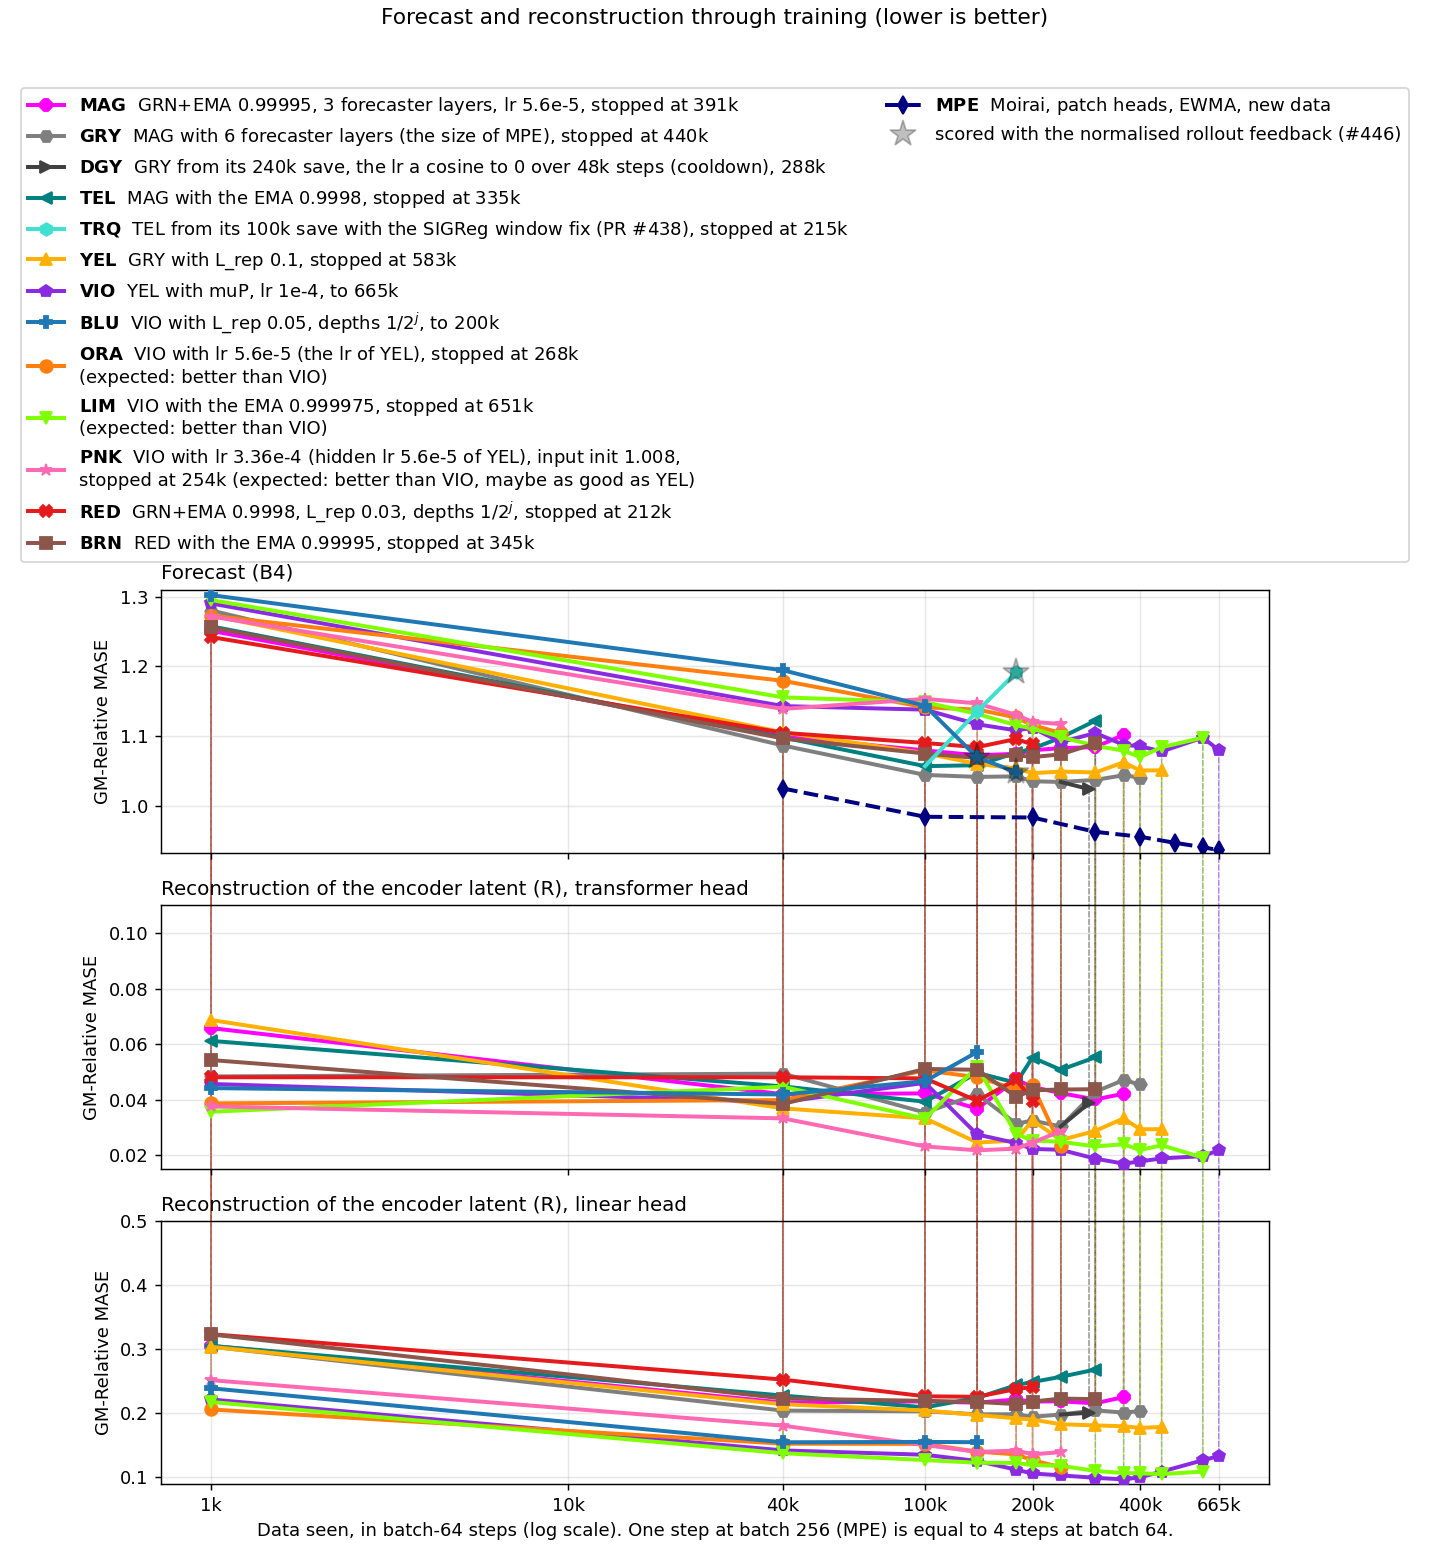
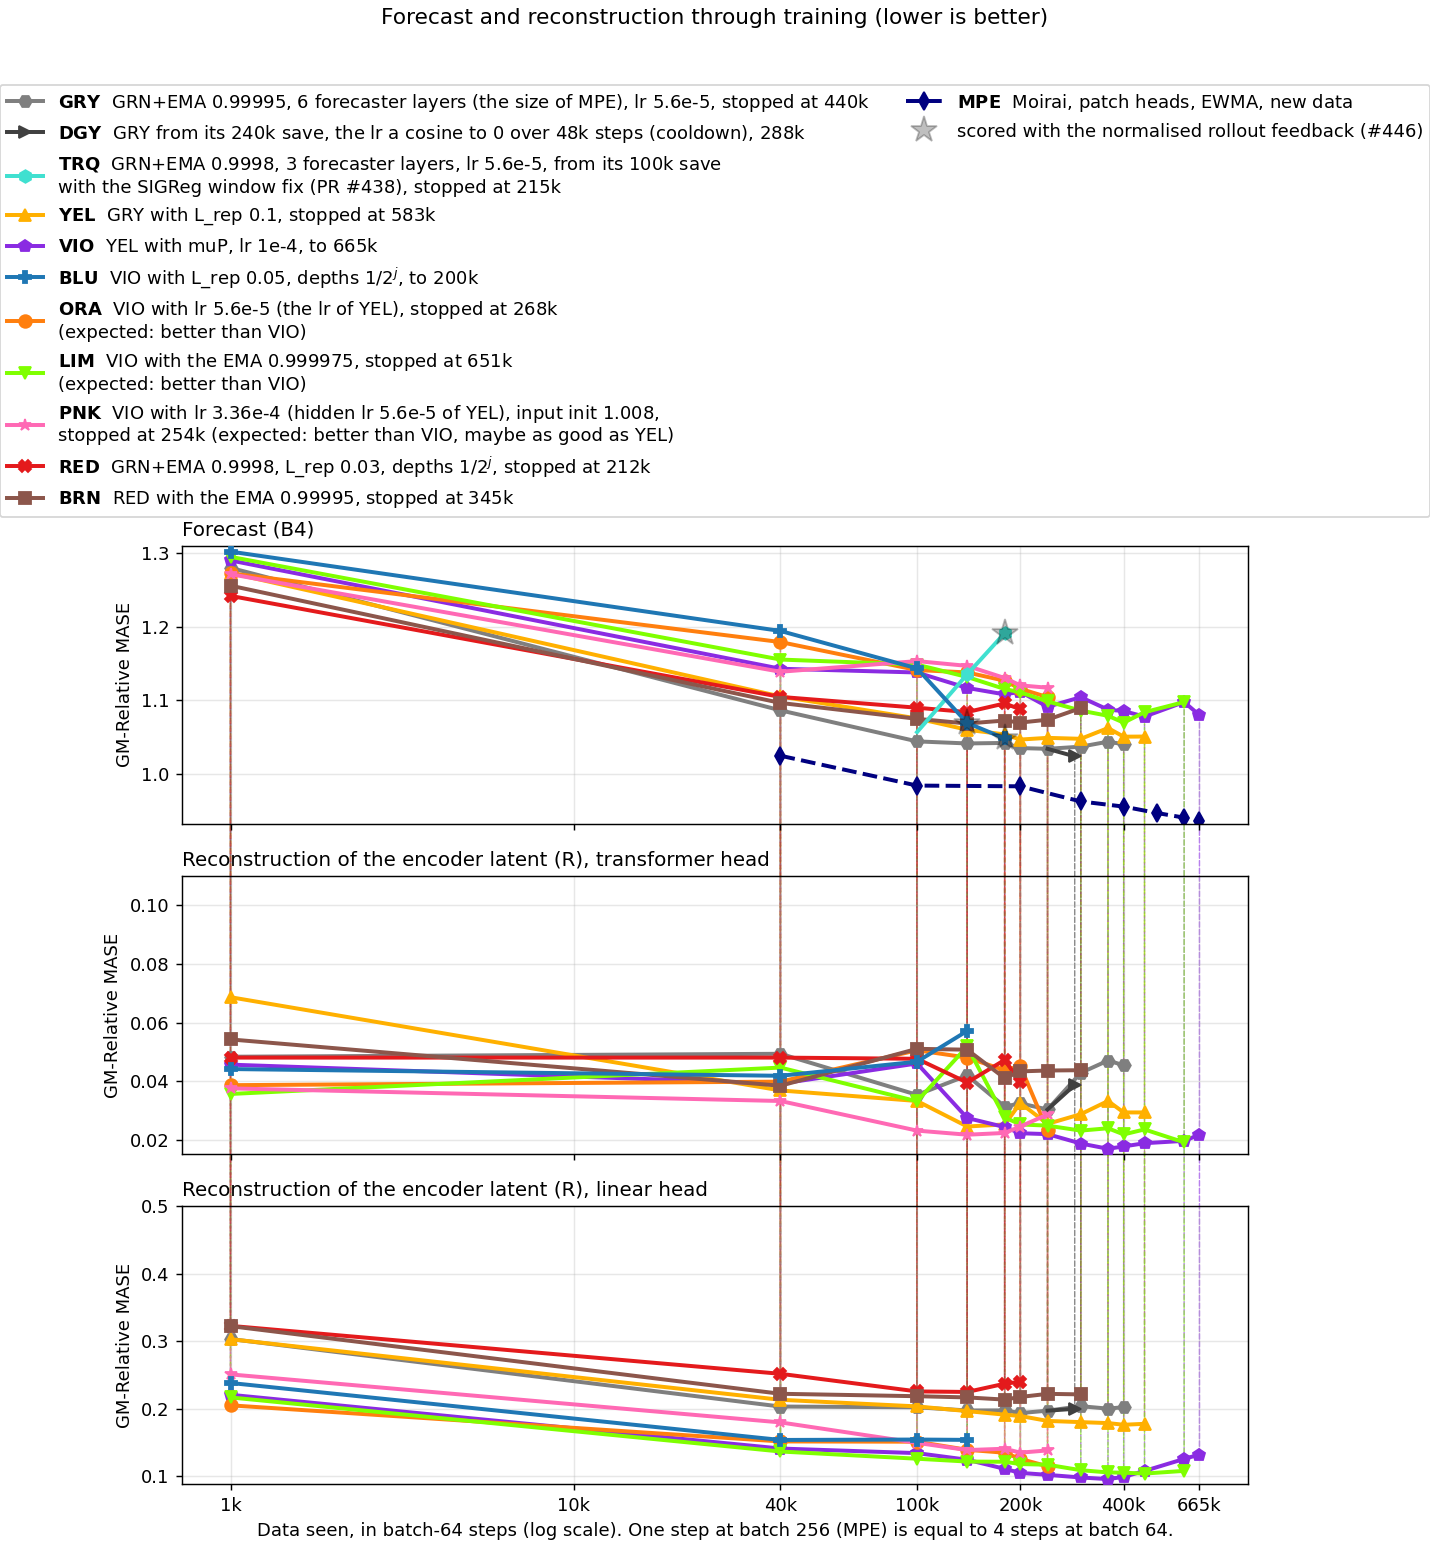
freq_family report: TEL and MAG out of the score figure; text for blue 180k and the gate
On the request of the user (11-04), teal and magenta leave the forecast and
reconstruction figure. TRQ starts at the 100k score of teal, the save that it
resumed. The report text gives blue at 180k (1.0482, normalised rollout) and
the gate score (1.2866). The best-forecast label of the loss composition says
when the score used the normalised rollout.

Changed region(s): [[0.0, 0.0615, 0.8923, 0.9846], [0.6154, 0.0615, 1.0, 0.3385]]

diff --git a/reports/2026-10-10_frequency_family_head/scripts/plot_green_scores.py b/reports/2026-10-10_frequency_family_head/scripts/plot_green_scores.py
@@ -15,9 +15,11 @@ Writes plots/forecast_and_reconstruction.png: three panels on one x axis.
   3. The same, linear head.
 
 A dashed vertical line joins the scores of one checkpoint in the panels. The
-legend gives each run a three-letter code (from its colour: MAG, GRY, YEL, VIO,
-BLU, ORA, LIM, PNK, RED, BRN, DGY, TEL, TRQ), and for orange, lime and pink the result that
-the user expected before their start.
+legend gives each run a three-letter code (from its colour: GRY, YEL, VIO,
+BLU, ORA, LIM, PNK, RED, BRN, DGY, TRQ), and for orange, lime and pink the result that
+the user expected before their start. GRN+EMA 0.99995 with 3 forecaster layers
+(MAG) and the same with the EMA 0.9998 (TEL) are out of the figure (the user,
+11-04); TRQ starts at the 100k score of TEL, the save that it resumed.
 
 Reads the forecast of MPE of #412 and #425
 (reports/2026-09-06_moirai_small_size/results/gm_trajectories.tsv,
@@ -108,16 +110,12 @@ OUT = STUDY / "plots" / "forecast_and_reconstruction.png"
 # setting of another run names that run by its code. "expected" gives what the
 # user expected of the run before its start (the user, 10-29 and 10-31).
 RUNS = [
-    (GRN_EMA099995, r"$\mathbf{MAG}$  GRN+EMA 0.99995, 3 forecaster layers, lr 5.6e-5, "
-     "stopped at 391k", GRN_EMA099995_COLOUR, "8"),
-    (GRN_EMA099995_F6, r"$\mathbf{GRY}$  MAG with 6 forecaster layers (the size of MPE), "
-     "stopped at 440k", GRN_EMA099995_F6_COLOUR, "H"),
+    (GRN_EMA099995_F6, r"$\mathbf{GRY}$  GRN+EMA 0.99995, 6 forecaster layers (the size of MPE), "
+     "lr 5.6e-5, stopped at 440k", GRN_EMA099995_F6_COLOUR, "H"),
     (GRN_EMA099995_F6_CD240, r"$\mathbf{DGY}$  GRY from its 240k save, the lr a cosine to 0 "
      "over 48k steps (cooldown), 288k", GRN_EMA099995_F6_CD240_COLOUR, ">"),
-    (GRN_EMA09998, r"$\mathbf{TEL}$  MAG with the EMA 0.9998, stopped at 335k",
-     GRN_EMA09998_COLOUR, "<"),
-    (GRN_EMA09998_SIGFIX, r"$\mathbf{TRQ}$  TEL from its 100k save with the SIGReg window fix (PR #438), "
-     "stopped at 215k", GRN_EMA09998_SIGFIX_COLOUR, "h"),
+    (GRN_EMA09998_SIGFIX, r"$\mathbf{TRQ}$  GRN+EMA 0.9998, 3 forecaster layers, lr 5.6e-5, from its 100k "
+     "save" "\n" "with the SIGReg window fix (PR #438), stopped at 215k", GRN_EMA09998_SIGFIX_COLOUR, "h"),
     (GRN_EMA099995_F6_REP01, r"$\mathbf{YEL}$  GRY with L_rep 0.1, stopped at 583k",
      GRN_EMA099995_F6_REP01_COLOUR, "^"),
     (GRN_EMA099995_F6_REP01_MUP, r"$\mathbf{VIO}$  YEL with muP, lr 1e-4, to 665k",

diff --git a/reports/2026-10-10_frequency_family_head/scripts/plot_loss_composition_099995.py b/reports/2026-10-10_frequency_family_head/scripts/plot_loss_composition_099995.py
@@ -223,6 +223,14 @@ def best_forecasts():
     return {run: (*min(rows, key=lambda r: r[1]), len(rows)) for run, rows in scores.items()}
 
 
+def normalised(run, stop):
+    """True when the forecast score of the run at this stop used the normalised
+    rollout feedback of #446 (results/normalised_rollout_scores.tsv)."""
+    with open(STUDY / "results" / "normalised_rollout_scores.tsv") as f:
+        return any(r["run"] == run and int(r["stop_k"]) == stop
+                   for r in csv.DictReader(f, delimiter="\t"))
+
+
 def mark_best(ax, run, best):
     """A dashed line in the colour of the run at the stop of its best forecast."""
     if run not in best:
@@ -232,6 +240,8 @@ def mark_best(ax, run, best):
     ax.axvline(stop * 1000, color=colour, ls="--", lw=2.0,
                path_effects=[pe.Stroke(linewidth=3.4, foreground="black"), pe.Normal()])
     what = "best forecast" if scored > 1 else "only forecast score so far"
+    if normalised(run, stop):
+        what += "\n(normalised rollout)"
     ax.text(stop * 1000 * 1.08, 0.04, f"{what}:\n{score:.4f} at {stop}k",
             transform=ax.get_xaxis_transform(), color=colour, fontsize=9, fontweight="bold",
             va="bottom", bbox=dict(facecolor="white", alpha=0.9, edgecolor=colour))

diff --git a/reports/2026-10-10_frequency_family_head/frequency_family_head.md b/reports/2026-10-10_frequency_family_head/frequency_family_head.md
@@ -6,6 +6,7 @@
 
 Grey (EMA 0.99995, 6 forecaster layers, stopped at 440k) has the lowest forecast MASE of the GRN runs: 1.0341 at 240k.
 Magenta (the same with 3 forecaster layers) has its lowest MASE, 1.0723, at 140k.
+Magenta and teal (magenta with the EMA 0.9998) are out of this figure, on the request of the user.
 At 200k, the forecast MASE is 1.0467 for yellow (grey with the L_rep weight 0.1 at each step), 1.0351 for grey and 1.0879 for red (EMA 0.9998, the L_rep weight 0.03 at each step, depth j of L_align at the weight 1/2^j).
 DGY (dark grey) is grey from its 240k save, with the learning rate annealed from 5.6e-5 to 0 by a cosine over 48k steps (the cooldown of a WSD schedule).
 Its forecast MASE at 288k is 1.0238, the lowest of the report.
@@ -16,6 +17,8 @@ Its R scores at 665k are 0.0218 (transformer head) and 0.1323 (linear head).
 Blue (violet with the L_rep weight 0.05 and the depth weights 1/2^j) gets 1.0693 at 140k with the normalised rollout of #446.
 At 100k, with the raw rollout, it gets 1.1435.
 At 140k, with the raw rollout, grey gets 1.0414, yellow 1.0600 and violet 1.1169.
+At 180k, blue gets 1.0482 with the normalised rollout, its lowest score.
+At 180k, with the raw rollout, grey gets 1.0421 and yellow 1.0537.
 A light asterisk marks each score with the normalised rollout.
 
 ## Learning rate
@@ -72,7 +75,10 @@ At batch 128, the learning rates 1e-4, 2e-4, 4e-4 and 8e-4 give 1.2124, 1.1926, 
 The lowest score is at 4e-4.
 At batch 128, a warmup to 1e-3 over 4k steps, then a cosine to 4e-4, gives 1.1922.
 The constant learning rate 4e-4 gives 1.1842.
-A run at batch 128 and lr 4e-4 with the SIGReg window fix of #438 trains.
+The same run with the SIGReg window fix of #438 gives 1.2866.
+In this run, SIGReg is about 16.4 from step 200 to 35.5k, 100 to 300 times L_align.
+Between 35.5k and 36.5k, SIGReg falls to about 0.2.
+The batch-256 runs keep the old SIGReg window.
 
 ![Relative MASE per GIFT-Eval dataset](plots/grid40k_radar.png)
 
